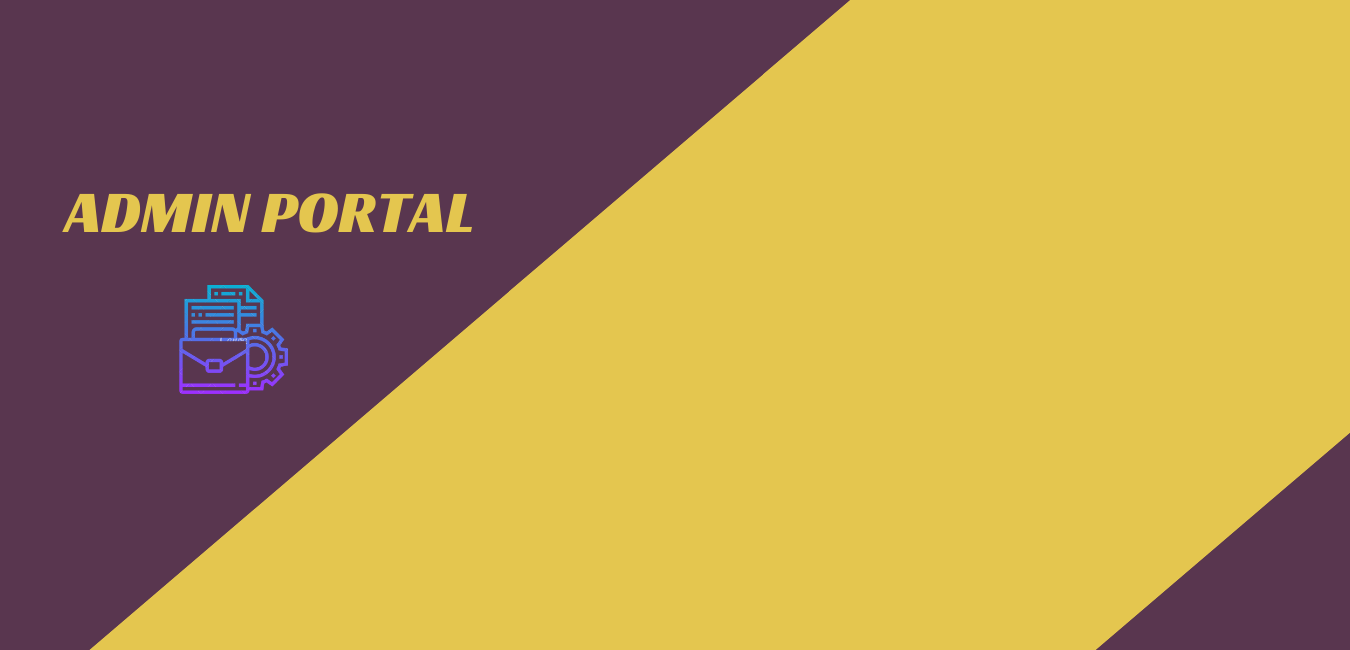
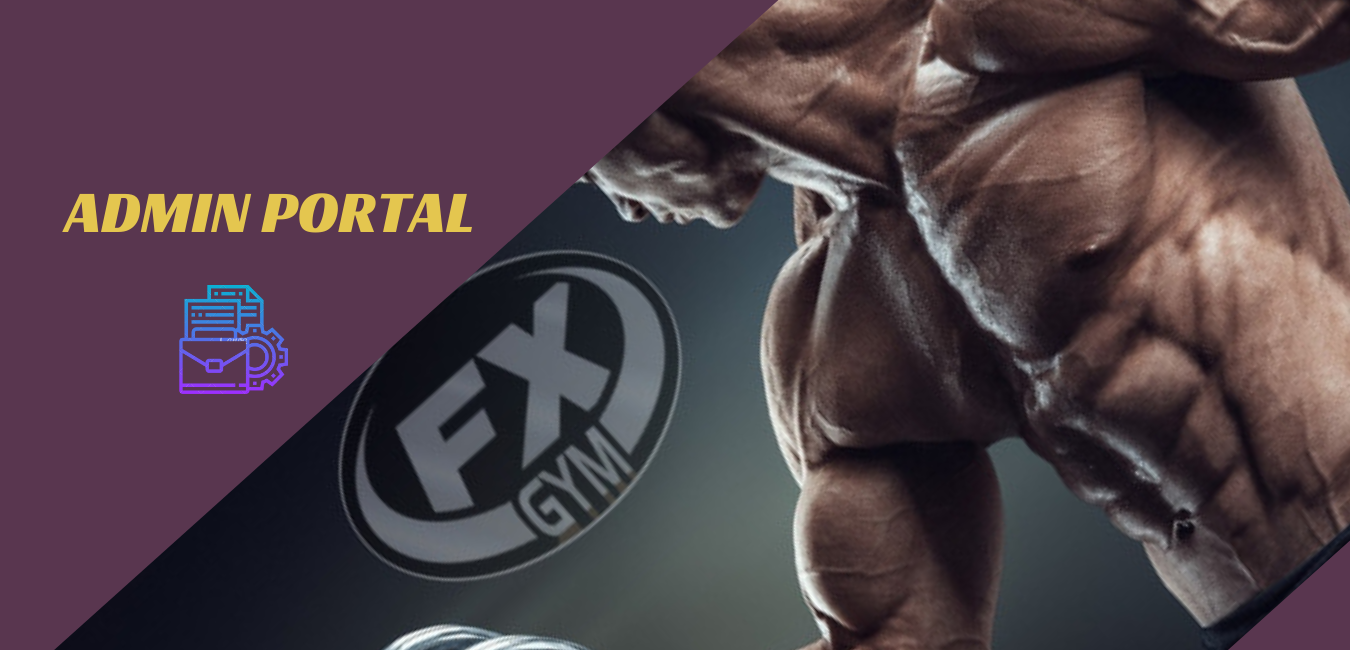
changes in ui 2

diff --git a/public/index.html b/public/index.html
@@ -102,7 +102,7 @@
 				</div>
 				<div class="row text-center">
 					<div class="col-md-4 col-sm-6">
-						<div class="team-section-grid animate-box" style="background-image: url(images/gyhome1.jpg);">
+						<div class="team-section-grid animate-box" style="background-image: url(images/gymhome1.jpg);">
 							<div class="overlay-section">
 								<div class="desc">
 									<h3>Know More</h3>
@@ -115,7 +115,7 @@
 						</div>
 					</div>
 					<div class="col-md-4 col-sm-6">
-						<div class="team-section-grid animate-box" style="background-image: url(images/gymhome2.jpg);">
+						<div class="team-section-grid animate-box" style="background-image: url(images/gymhome2.JPG);">
 							<div class="overlay-section">
 								<div class="desc">
 									<h3>Know More</h3>
@@ -165,7 +165,7 @@
 					</div>
 					<div class="col-md-4 col-sm-6">
 						<div class="program animate-box">
-							<img src="images/fit-cardio.jpg" alt="">
+							<img src="images/fit-cardio.png" alt="">
 							<h3>Cardio Classes</h3>
 							<p>Cardio exercise is one of the most important things you can do for your body, whether you want to lose weight, burn fat,</p>
 							<span><a href="form.html" class="btn btn-default">Join Now</a></span>
@@ -189,7 +189,6 @@
 					<div class="col-md-8 col-md-offset-2">
 						<div class="heading-section text-center animate-box">
 							<h2>Look in the mirror. That’s your competition</h2>
-							<h3> – John Assaraf</h3>
 						</div>
 					</div>
 				</div>
@@ -197,9 +196,11 @@
 					<div class="col-md-12 col-sm-6">
 						<div class="team-section-grid animate-box">
 							<img class="img-responsive animate-box-crusel" src="images/crusel1.JPG" alt="trainers">
-							<img class="img-responsive animate-box-crusel" src="images/crusel2.JPG" alt="trainers">
+							<img class="img-responsive animate-box-crusel" src="images/crusel2.jpg" alt="trainers">
 							<img class="img-responsive animate-box-crusel" src="images/crusel3.JPG" alt="trainers">
-							<img class="img-responsive animate-box-crusel" src="images/crusel4.JPG" alt="trainers">
+							<img class="img-responsive animate-box-crusel" src="images/crusel4.jpg" alt="trainers">
+							<img class="img-responsive animate-box-crusel" src="images/crusel5.jpg" alt="trainers">
+
 							<div class="overlay-section">
 								<div class="desc">
 									<p>Don’t stop until you’re proud</p>
@@ -224,7 +225,7 @@
 					<div class="col-md-8 col-md-offset-2">
 						<div class="heading-section text-center animate-box">
 							<h2>Pricing Plan</h2>
-							<p>Separated they live in Bookmarksgrove right at the coast of the Semantics, a large language ocean.</p>
+							<p>BOOK NOW FOR SPECIAL RATES</p>
 						</div>
 					</div>
 				</div>
@@ -297,7 +298,7 @@
 				</div>
 			</div>
 		</div>
-		<div class="fh5co-parallax" style="background-image: url(images/home2.png);" data-stellar-background-ratio="0.5">
+		<div class="fh5co-parallax" style="background-image: url(images/con1.jpg);" data-stellar-background-ratio="0.5">
 			<div class="overlay"></div>
 			<div class="container">
 				<div class="row">
@@ -359,7 +360,7 @@
 					<div class="row">
 						<div class="col-md-4 animate-box">
 							<h3 class="section-title">About Us</h3>
-							<p>'Fx Gym Moga now has world's number one alternative motion cardio machine -Sparc Trainer, made in USA by world's leading sports equipment company -Cybex, that offers extremely efficient and effective cardio backed by exercise science. It’s really three machines in one. At lower incline levels, it glides like a cross-country skier. In the middle, it strides like an elliptical. At higher levels, it’s a climber. </p>
+							<p>Fx Gym Moga now has world's number one alternative motion cardio machine -Sparc Trainer, made in USA by world's leading sports equipment company -Cybex, that offers extremely efficient and effective cardio backed by exercise science. It’s really three machines in one. At lower incline levels, it glides like a cross-country skier. In the middle, it strides like an elliptical. At higher levels, it’s a climber. </p>
 						</div>
 
 						<div class="col-md-4 animate-box">

diff --git a/public/schedule.html b/public/schedule.html
@@ -51,7 +51,7 @@
 				<div class="container">
 					<div class="nav-header">
 						<a href="#" class="js-fh5co-nav-toggle fh5co-nav-toggle"><i></i></a>
-						<h1 id="fh5co-logo"><a href="index.html">Fit<span>ness</span></a></h1>
+						<h1 id="fh5co-logo"><a href="index.html">Fx Gym</span></a></h1>
 						<!-- START #fh5co-menu-wrap -->
 						<nav id="fh5co-menu-wrap" role="navigation">
 							<ul class="sf-menu" id="fh5co-primary-menu">
@@ -129,7 +129,7 @@
 								</div>
 								<div class="col-md-6 col-sm-6">
 									<div class="program program-schedule">
-										<img src="images/fit-yoga.svg" alt="">
+										<img src="images/fit-cardio.png" alt="">
 										<h4>05:00 PM - 05:30 PM</h4>
 										<h3>Aerobics Class</h3>
 									</div>
@@ -161,7 +161,7 @@
 								</div>
 								<div class="col-md-6 col-sm-6">
 									<div class="program program-schedule">
-										<img src="images/fit-yoga.svg" alt="">
+										<img src="images/fit-cardio.png" alt="">
 										<h4>05:00 PM - 05:30 PM</h4>
 										<h3>Bhangra Class</h3>
 									</div>
@@ -193,7 +193,7 @@
 								</div>
 								<div class="col-md-6 col-sm-6">
 									<div class="program program-schedule">
-										<img src="images/fit-yoga.svg" alt="">
+										<img src="images/fit-cardio.png" alt="">
 										<h4>05:00 PM - 05:30 PM</h4>
 										<h3>Aerobics Class</h3>
 									</div>
@@ -225,7 +225,7 @@
 								</div>
 								<div class="col-md-6 col-sm-6">
 									<div class="program program-schedule">
-										<img src="images/fit-yoga.svg" alt="">
+										<img src="images/fit-cardio.png" alt="">
 										<h4>05:00 PM - 05:30 PM</h4>
 										<h3>Bhangra Class</h3>
 									</div>
@@ -257,7 +257,7 @@
 								</div>
 								<div class="col-md-6 col-sm-6">
 									<div class="program program-schedule">
-										<img src="images/fit-yoga.svg" alt="">
+										<img src="images/fit-cardio.png" alt="">
 										<h4>05:00 PM - 05:30 PM</h4>
 										<h3>Aerobics Class</h3>
 									</div>
@@ -289,7 +289,7 @@
 								</div>
 								<div class="col-md-6 col-sm-6">
 									<div class="program program-schedule">
-										<img src="images/fit-yoga.svg" alt="">
+										<img src="images/fit-cardio.png" alt="">
 										<h4>05:00 PM - 05:30 PM</h4>
 										<h3>Aerobics Class</h3>
 									</div>
@@ -331,7 +331,7 @@
 					</div>
 					<div class="col-md-4 col-sm-6">
 						<div class="program animate-box">
-							<img src="images/fit-aerobic.png" alt="">
+							<img src="images/fit-cardio.png" alt="">
 							<h3>Aerobics Classes</h3>
 							<p>Far far away, behind the word mountains, far from the countries Vokalia and Consonantia, there live the blind texts. </p>
 							<span><a href="form.html" class="btn btn-default">Join Now</a></span>
@@ -347,7 +347,7 @@
 					<div class="row">
 						<div class="col-md-4 animate-box">
 							<h3 class="section-title">About Us</h3>
-							<p>'Fx Gym Moga now has world's number one alternative motion cardio machine -Sparc Trainer, made in USA by world's leading sports equipment company -Cybex, that offers extremely efficient and effective cardio backed by exercise science. It’s really three machines in one. At lower incline levels, it glides like a cross-country skier. In the middle, it strides like an elliptical. At higher levels, it’s a climber. </p>
+							<p>Fx Gym Moga now has world's number one alternative motion cardio machine -Sparc Trainer, made in USA by world's leading sports equipment company -Cybex, that offers extremely efficient and effective cardio backed by exercise science. It’s really three machines in one. At lower incline levels, it glides like a cross-country skier. In the middle, it strides like an elliptical. At higher levels, it’s a climber. </p>
 						</div>
 
 						<div class="col-md-4 animate-box">

diff --git a/public/trainer.html b/public/trainer.html
@@ -54,7 +54,7 @@
 				<div class="container">
 					<div class="nav-header">
 						<a href="#" class="js-fh5co-nav-toggle fh5co-nav-toggle"><i></i></a>
-						<h1 id="fh5co-logo"><a href="index.html">Fit<span>ness</span></a></h1>
+						<h1 id="fh5co-logo"><a href="index.html">Fx Gym</span></a></h1>
 						<!-- START #fh5co-menu-wrap -->
 						<nav id="fh5co-menu-wrap" role="navigation">
 							<ul class="sf-menu" id="fh5co-primary-menu">
@@ -77,16 +77,23 @@
 				<div class="row">
 					<div class="col-md-8 col-md-offset-2 col-sm-12 col-sm-offset-0 col-xs-12 col-xs-offset-0 text-center fh5co-table">
 						<div class="fh5co-intro fh5co-table-cell animate-box">
-							<h1 class="text-center">Trainers</h1>
 						</div>
 					</div>
 				</div>
 			</div>
 		</div><!-- end: fh5co-parallax -->
 		<!-- end:fh5co-hero -->
+		
 		<div id="fh5co-team-section">
 			<div class="container">
 				<div class="row">
+					<div class="row">
+						<div class="col-md-8 col-md-offset-2">
+							<div class="heading-section text-center animate-box">
+								<h2>Trainers</h2>
+							</div>
+						</div>
+					</div>
 					<div class="col-md-8 col-md-offset-2">
 						<div class="heading-section text-center animate-box">
 							<h2>Meet Our Trainers</h2>
@@ -167,7 +174,7 @@
 					</div>
 					<div class="col-md-4 col-sm-6">
 						<div class="program animate-box">
-							<img src="images/fit-aerobic.png" alt="">
+							<img src="images/fit-cardio.png" alt="">
 							<h3>Aerobics Classes</h3>
 							<p>Far far away, behind the word mountains, far from the countries Vokalia and Consonantia, there live the blind texts. </p>
 							<span><a href="form.html" class="btn btn-default">Join Now</a></span>
@@ -184,7 +191,7 @@
 					<div class="row">
 						<div class="col-md-4 animate-box">
 							<h3 class="section-title">About Us</h3>
-							<p>'Fx Gym Moga now has world's number one alternative motion cardio machine -Sparc Trainer, made in USA by world's leading sports equipment company -Cybex, that offers extremely efficient and effective cardio backed by exercise science. It’s really three machines in one. At lower incline levels, it glides like a cross-country skier. In the middle, it strides like an elliptical. At higher levels, it’s a climber. </p>
+							<p>Fx Gym Moga now has world's number one alternative motion cardio machine -Sparc Trainer, made in USA by world's leading sports equipment company -Cybex, that offers extremely efficient and effective cardio backed by exercise science. It’s really three machines in one. At lower incline levels, it glides like a cross-country skier. In the middle, it strides like an elliptical. At higher levels, it’s a climber. </p>
 						</div>
 
 						<div class="col-md-4 animate-box">

diff --git a/public/form.html b/public/form.html
@@ -75,7 +75,7 @@
 				<div class="row">
 					<div class="col-md-8 col-md-offset-2 col-sm-12 col-sm-offset-0 col-xs-12 col-xs-offset-0 text-center fh5co-table">
 						<div class="fh5co-intro fh5co-table-cell animate-box">
-							<h1 class="text-center">Commit To Be Fit</h1>
+							<h1 class="text-center"></h1>
 						</div>
 					</div>
 				</div>
@@ -84,10 +84,18 @@
 		<div id="fh5co-pricing-section" class="fh5co-pricing fh5co-lightgray-section">
 			<div class="container">
 				<div class="row">
+					<div class="row">
+						<div class="col-md-8 col-md-offset-2">
+							<div class="heading-section text-center animate-box">
+								<h2>Commit To Be Fit</h2>
+								<p>Tomorrow won’t make any difference. You will be as tired as you are now.</p> 
+							</div>
+						</div>
+					</div>
 					<div class="col-md-8 col-md-offset-2">
 						<div class="heading-section text-center animate-box">
 							<h2>Pricing Plan</h2>
-							<p>Separated they live in Bookmarksgrove right at the coast of the Semantics, a large language ocean.</p>
+							<p>BOOK NOW FOR SPECIAL RATES</p>
 						</div>
 					</div>
 				</div>
@@ -167,6 +175,7 @@
 				<form action="/register" method="POST">
 					<div class="row">
 						<h2 class="text-center">Registration Form </h2>
+						<p class="text-center">Pay now and get extra Discount</p>
 						<div class="col-md-4 animate-box">
 							<img class="img-responsive animate-box" src="images/reg.png" alt="contact">
 						</div>
@@ -245,7 +254,7 @@
 					<div class="row">
 						<div class="col-md-4 animate-box">
 							<h3 class="section-title">About Us</h3>
-							<p>'Fx Gym Moga now has world's number one alternative motion cardio machine -Sparc Trainer, made in USA by world's leading sports equipment company -Cybex, that offers extremely efficient and effective cardio backed by exercise science. It’s really three machines in one. At lower incline levels, it glides like a cross-country skier. In the middle, it strides like an elliptical. At higher levels, it’s a climber. </p>
+							<p>Fx Gym Moga now has world's number one alternative motion cardio machine -Sparc Trainer, made in USA by world's leading sports equipment company -Cybex, that offers extremely efficient and effective cardio backed by exercise science. It’s really three machines in one. At lower incline levels, it glides like a cross-country skier. In the middle, it strides like an elliptical. At higher levels, it’s a climber. </p>
 						</div>
 
 						<div class="col-md-4 animate-box">

diff --git a/public/about.html b/public/about.html
@@ -51,7 +51,7 @@
 				<div class="container">
 					<div class="nav-header">
 						<a href="#" class="js-fh5co-nav-toggle fh5co-nav-toggle"><i></i></a>
-						<h1 id="fh5co-logo"><a href="index.html">Fit<span>ness</span></a></h1>
+						<h1 id="fh5co-logo"><a href="index.html">Fx Gym</span></a></h1>
 						<!-- START #fh5co-menu-wrap -->
 						<nav id="fh5co-menu-wrap" role="navigation">
 							<ul class="sf-menu" id="fh5co-primary-menu">
@@ -101,7 +101,6 @@
 					<div class="col-md-8 col-md-offset-2">
 						<div class="heading-section text-center animate-box">
 								<h2>Look in the mirror. That’s your competition</h2>
-								<h3> – John Assaraf</h3>
 						</div>
 					</div>
 				</div>
@@ -109,9 +108,10 @@
 					<div class="col-md-12 col-sm-6">
 						<div class="team-section-grid animate-box">
 							<img class="img-responsive animate-box-crusel" src="images/crusel1.JPG" alt="trainers">
-							<img class="img-responsive animate-box-crusel" src="images/crusel2.JPG" alt="trainers">
+							<img class="img-responsive animate-box-crusel" src="images/crusel2.jpg" alt="trainers">
 							<img class="img-responsive animate-box-crusel" src="images/crusel3.JPG" alt="trainers">
-							<img class="img-responsive animate-box-crusel" src="images/crusel4.JPG" alt="trainers">
+							<img class="img-responsive animate-box-crusel" src="images/crusel4.jpg" alt="trainers">
+							<img class="img-responsive animate-box-crusel" src="images/crusel5.jpg" alt="trainers">
 							<div class="overlay-section">
 								<div class="desc">
 									<p>Don’t stop until you’re proud</p>
@@ -194,7 +194,7 @@
 				<form action="#">
 					<div class="row">
 						<div class="col-md-6 animate-box">
-							<img class="img-responsive animate-box" src="images/contact.jpg" alt="contact">
+							<img class="img-responsive animate-box" src="images/contact.png" alt="contact">
 						
 						</div>
 						<div class="col-md-6 animate-box">

diff --git a/public/login.html b/public/login.html
@@ -51,7 +51,7 @@
 				<div class="container">
 					<div class="nav-header">
 						<a href="#" class="js-fh5co-nav-toggle fh5co-nav-toggle"><i></i></a>
-						<h1 id="fh5co-logo"><a href="index.html">Fit<span>ness</span></a></h1>
+						<h1 id="fh5co-logo"><a href="index.html">Fx Gym</span></a></h1>
 						<!-- START #fh5co-menu-wrap -->
 						<nav id="fh5co-menu-wrap" role="navigation">
 							<ul class="sf-menu" id="fh5co-primary-menu">
@@ -131,7 +131,7 @@
 					<div class="row">
 						<div class="col-md-4 animate-box">
 							<h3 class="section-title">About Us</h3>
-							<p>'Fx Gym Moga now has world's number one alternative motion cardio machine -Sparc Trainer, made in USA by world's leading sports equipment company -Cybex, that offers extremely efficient and effective cardio backed by exercise science. It’s really three machines in one. At lower incline levels, it glides like a cross-country skier. In the middle, it strides like an elliptical. At higher levels, it’s a climber. </p>
+							<p>Fx Gym Moga now has world's number one alternative motion cardio machine -Sparc Trainer, made in USA by world's leading sports equipment company -Cybex, that offers extremely efficient and effective cardio backed by exercise science. It’s really three machines in one. At lower incline levels, it glides like a cross-country skier. In the middle, it strides like an elliptical. At higher levels, it’s a climber. </p>
 						</div>
 
 						<div class="col-md-4 animate-box">
